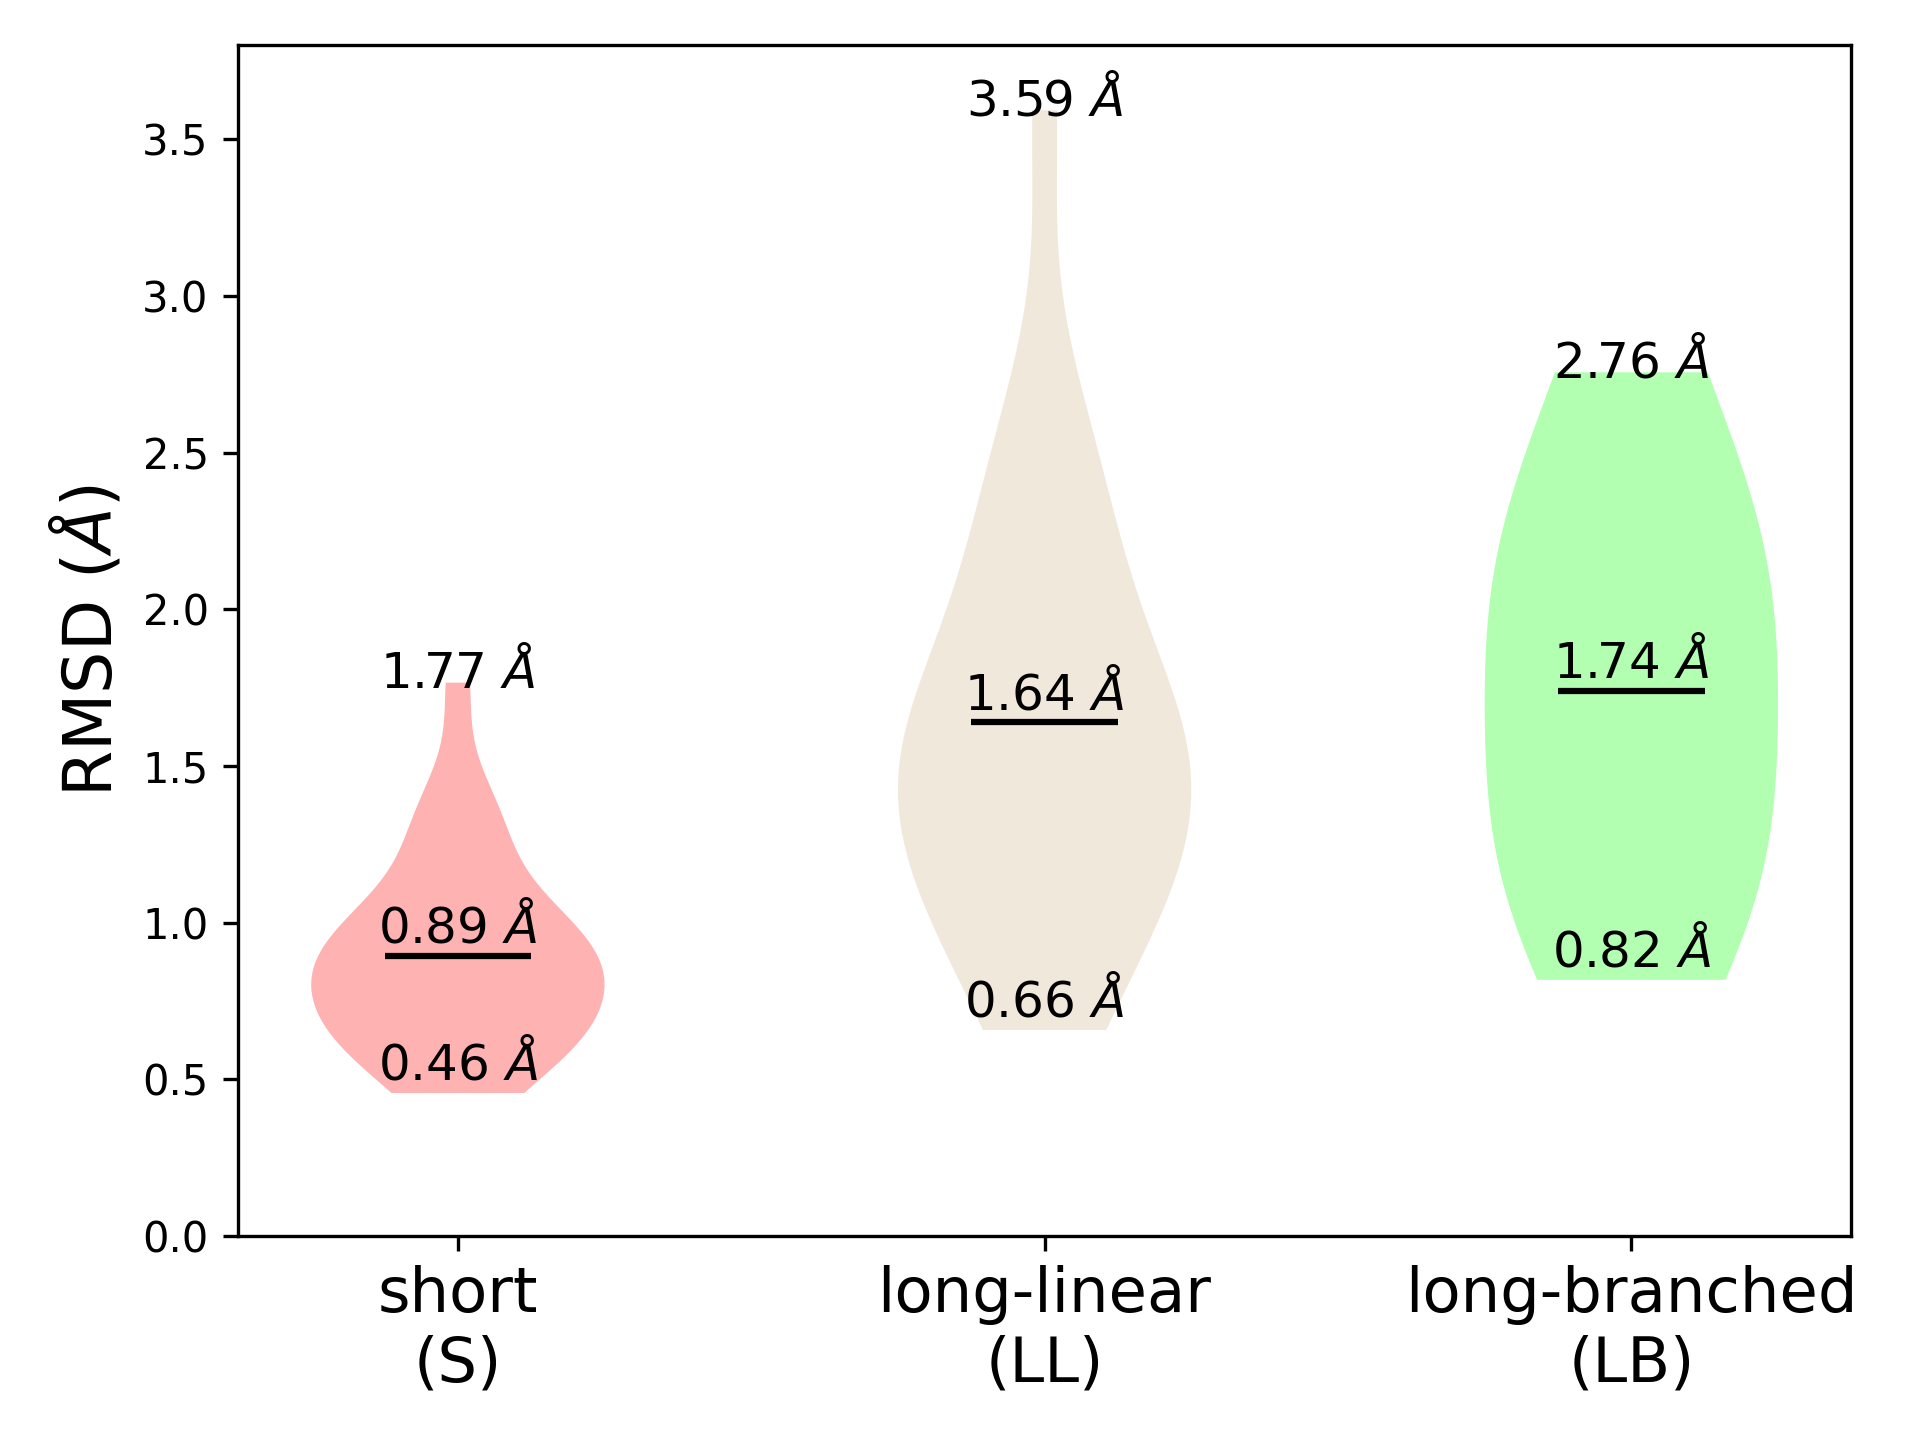
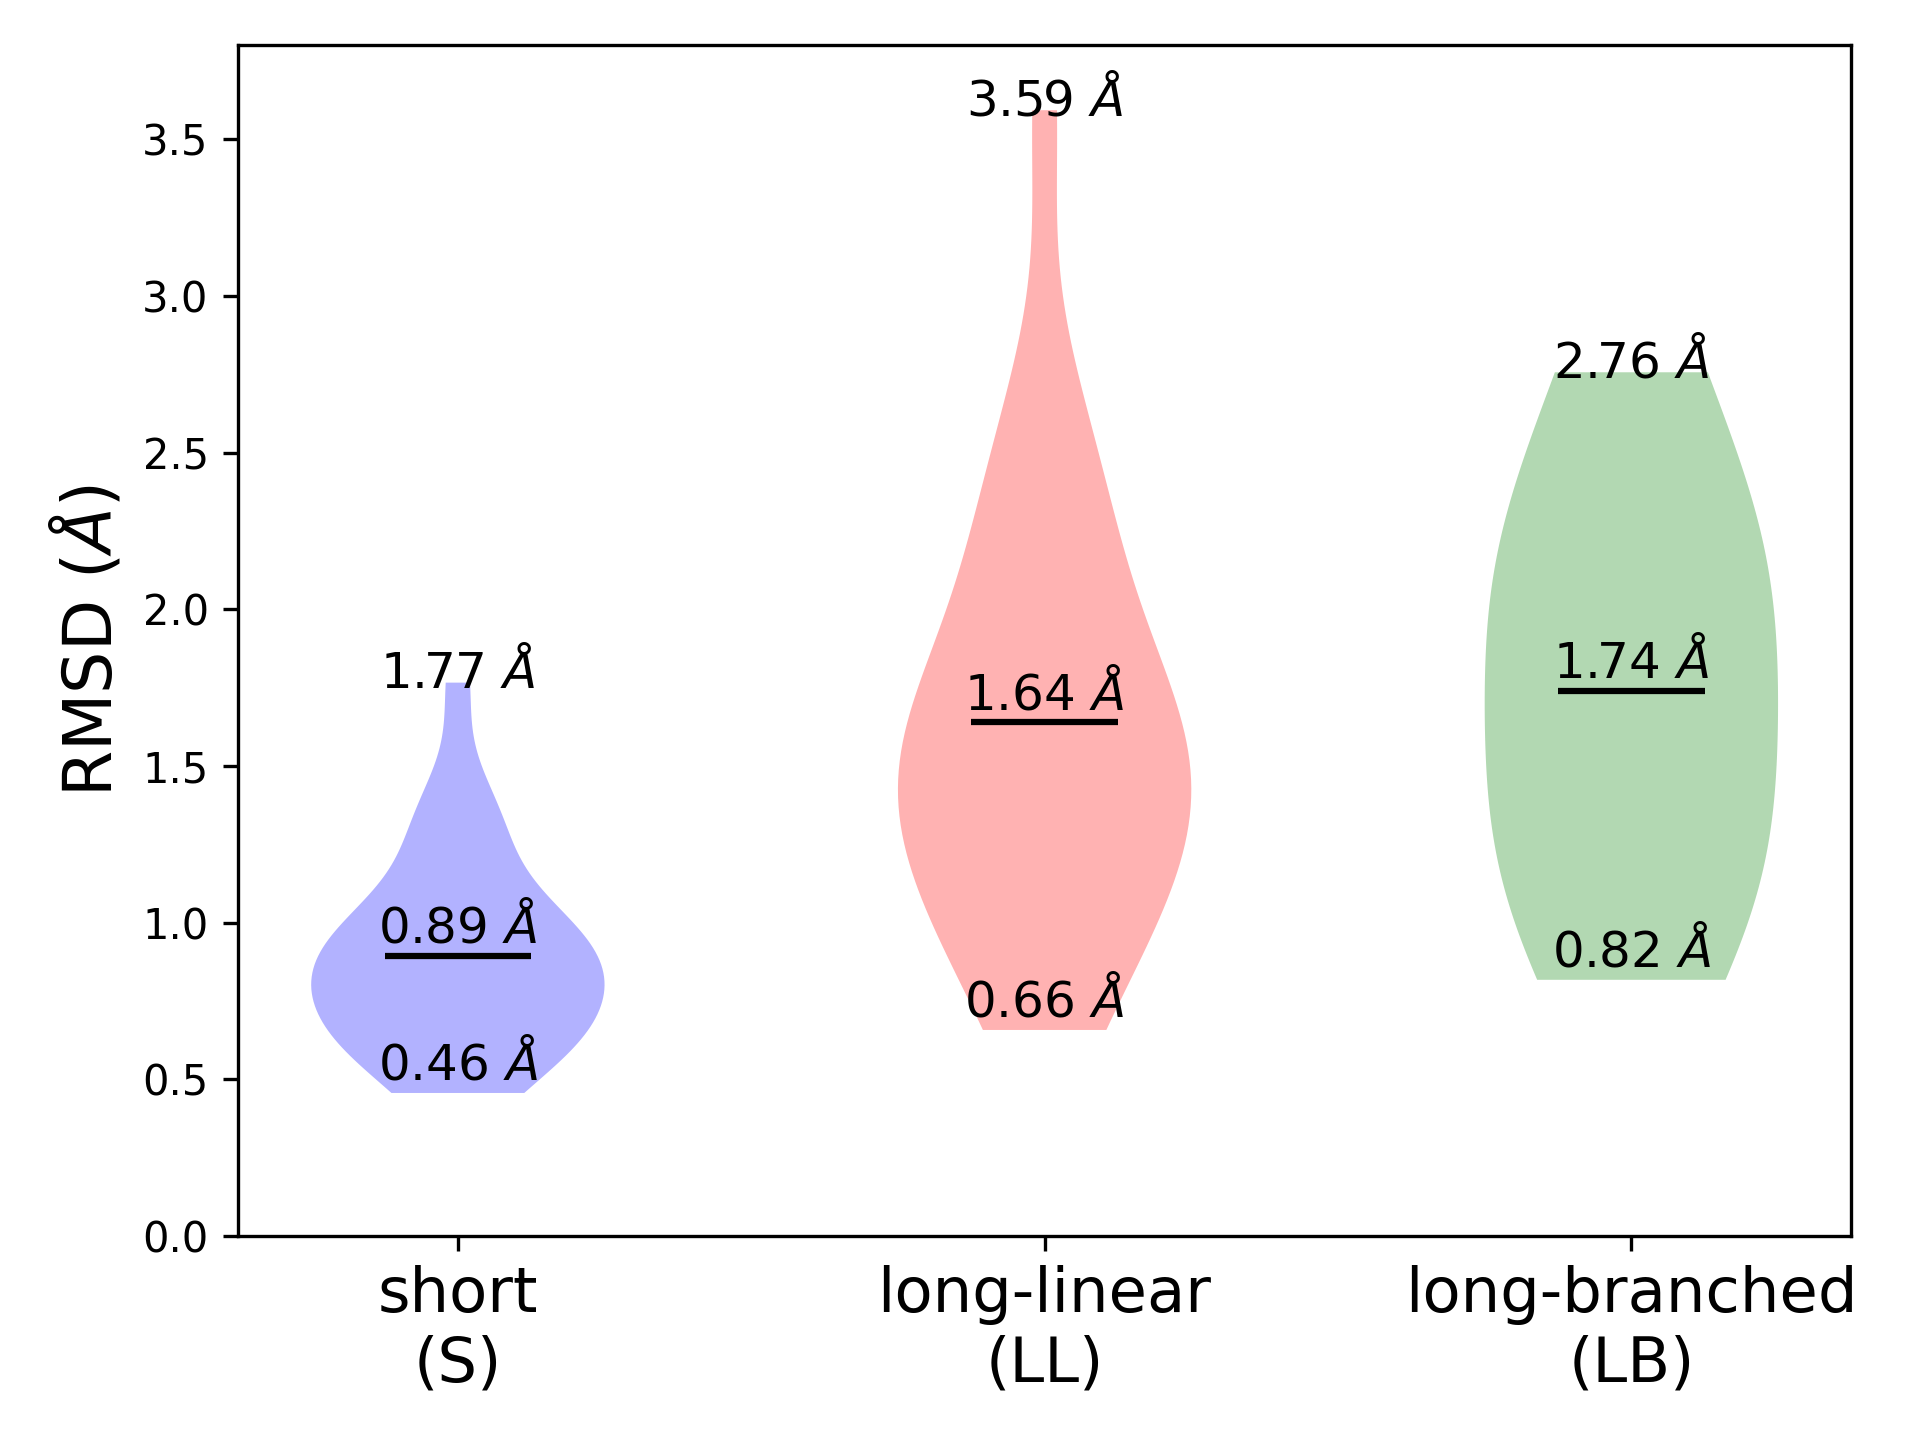
updated violin plot

Changed region(s): [[0.75, 0.25, 0.9375, 0.6875], [0.4688, 0.0625, 0.625, 0.7188], [0.1562, 0.4688, 0.3125, 0.7812]]

diff --git a/analysis/violinplot_rmsd.py b/analysis/violinplot_rmsd.py
@@ -5,7 +5,7 @@ short = []
 ll = []
 lb = []
 
-rmsd_file = Path("..", "data", "SF4-allatom.txt")
+rmsd_file = Path("..", "data", "RMSD_glycam_to_bound.txt")
 with open(rmsd_file, "r") as r:
     for ln in r:
         if ln.startswith("short") == True:
@@ -19,7 +19,7 @@ with open(rmsd_file, "r") as r:
 
 data = [short, ll, lb]
 fig, ax = plt.subplots()
-colors = ['red', 'tan', 'lime']
+colors = ['blue', 'red', 'green']
 plots = ax.violinplot(data, showmeans=True, showextrema=False)
 plots['cmeans'].set_colors("black")
 # Set the color of the violin patches
